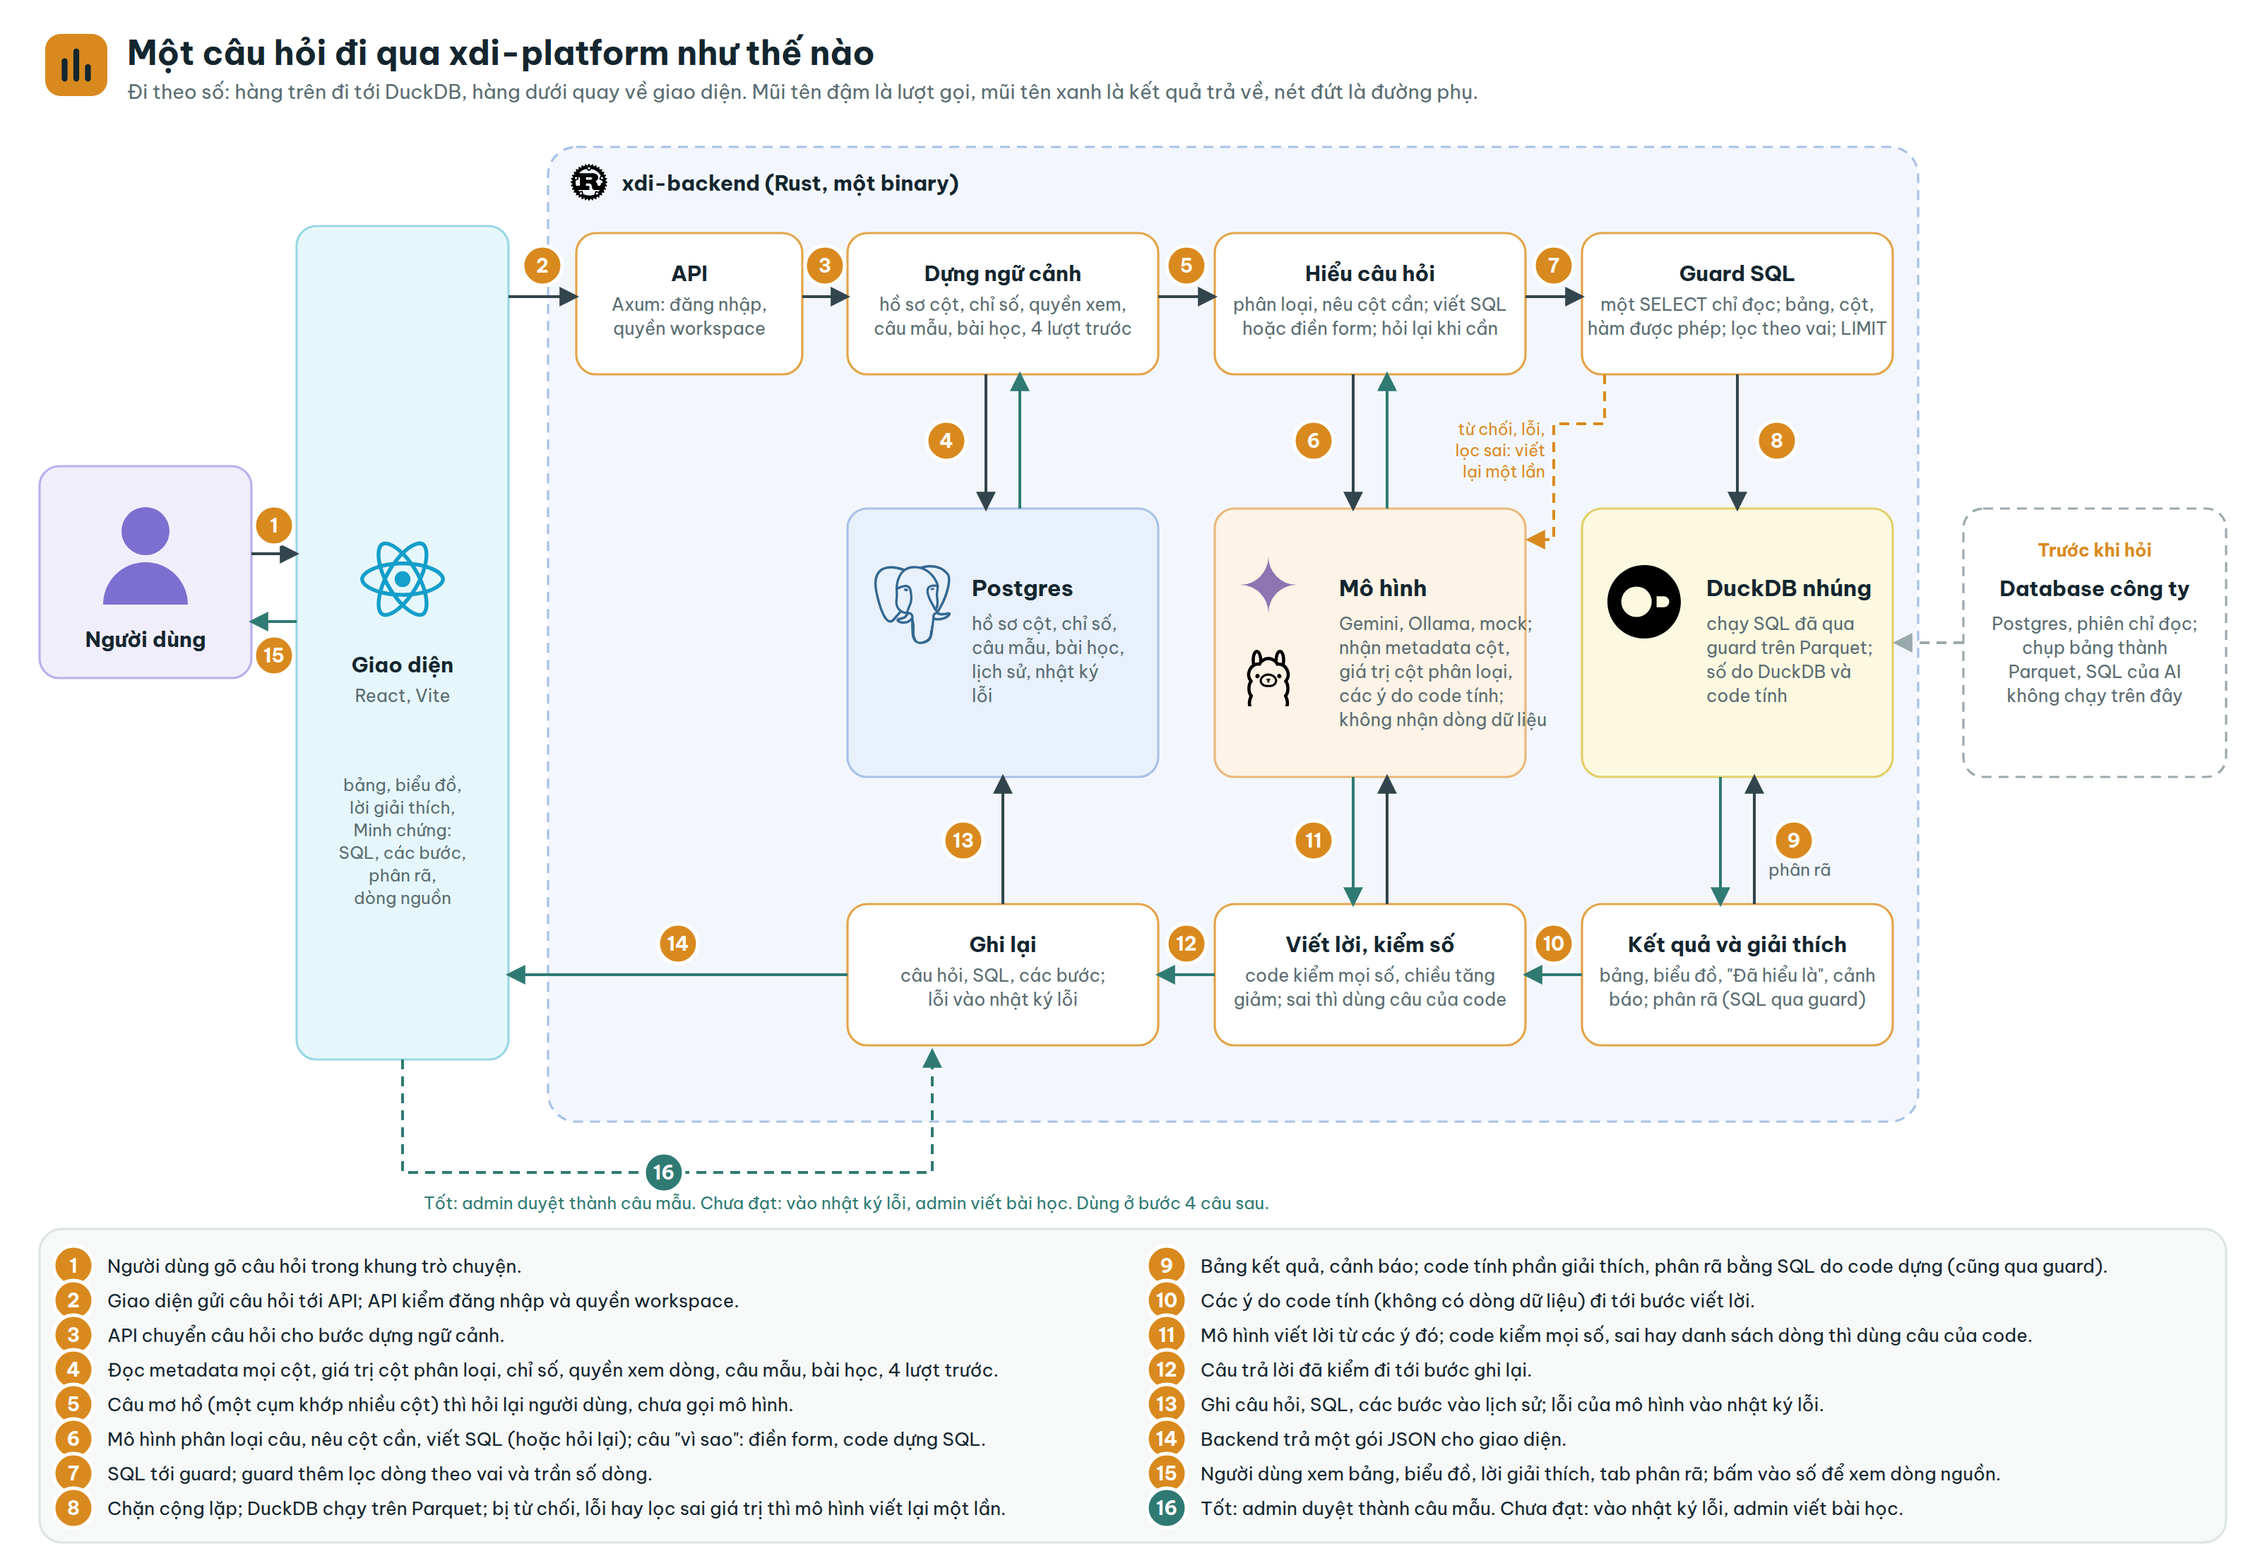
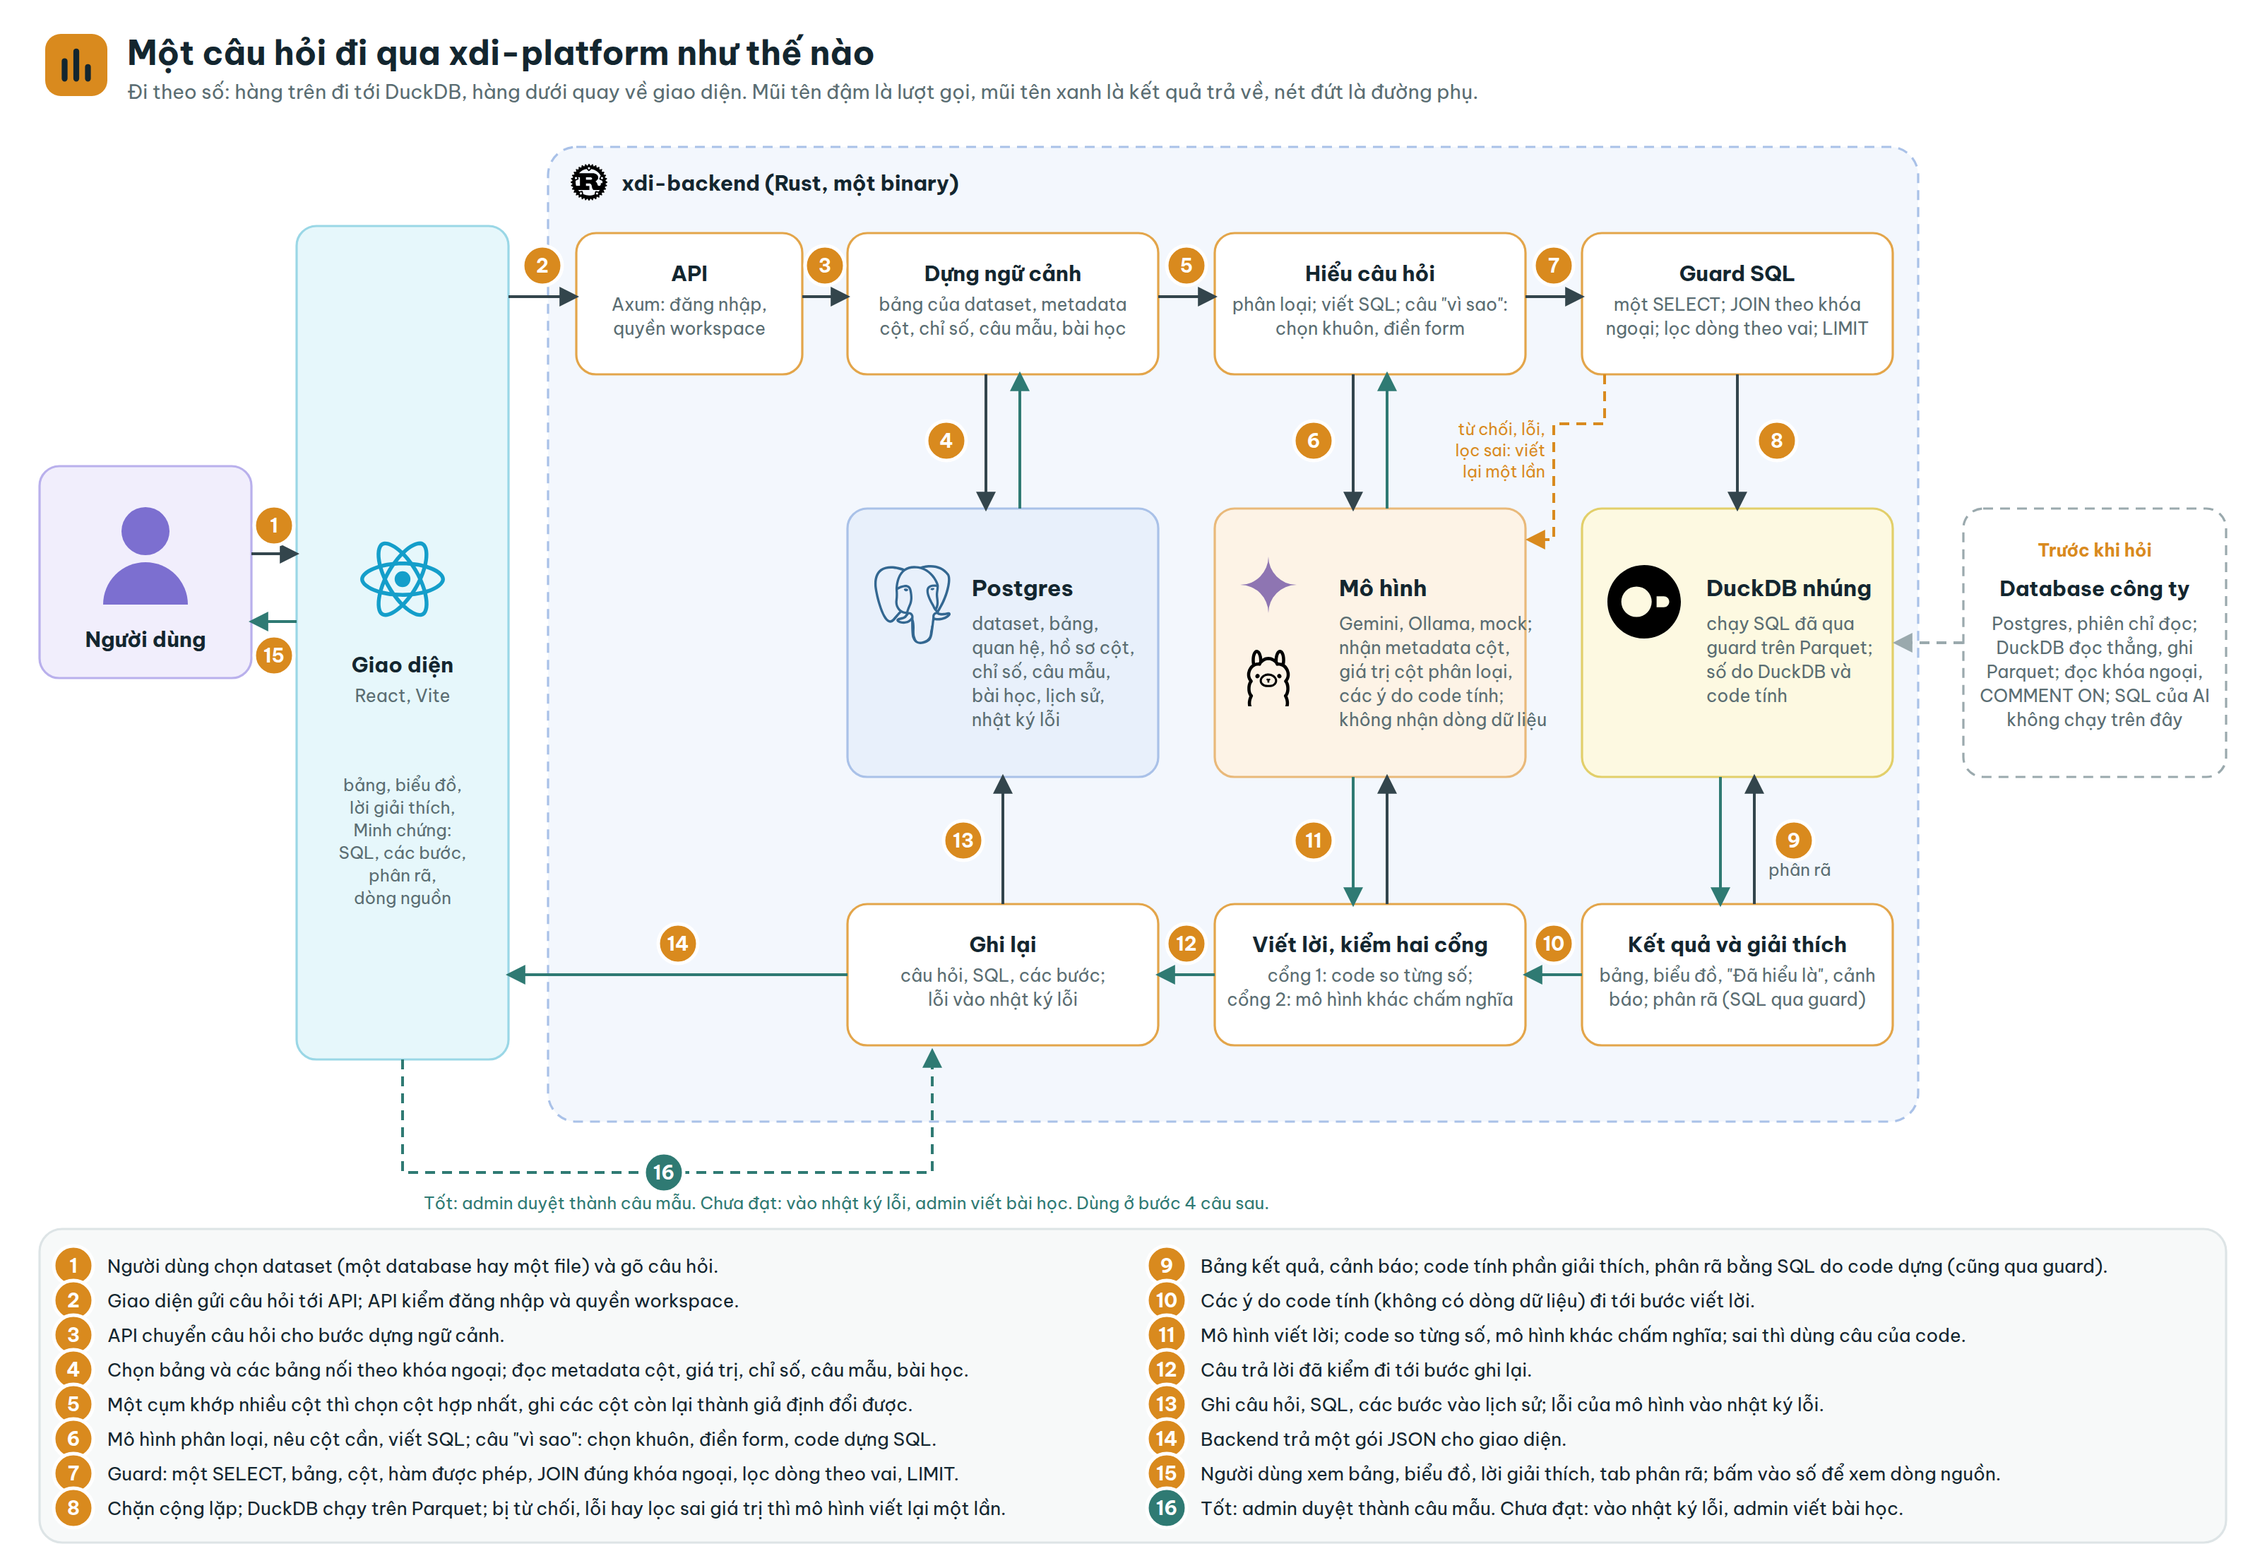
docs: update the question flow diagram to the current code and keep its source (#275)
Closes #262

- Sơ đồ luồng một câu hỏi (`docs/images/luong-cau-hoi.png`, ở README và
Pages) cập nhật theo code hiện tại: chọn dataset (database hay file,
#257), chọn bảng và bảng nối theo khóa ngoại; một cụm khớp nhiều cột thì
chọn cột hợp nhất, ghi giả định đổi được (#240, thay cho hỏi lại); câu
"vì sao" chọn khuôn (#255); guard nhận JOIN đúng khóa ngoại (#264); lời
qua hai cổng, code so từng số rồi mô hình khác chấm nghĩa (#240, #241);
DuckDB đọc thẳng Postgres, đọc khóa ngoại và `COMMENT ON` (#245, #263).
- Source sinh sơ đồ ở `docs/images/src/luong-cau-hoi.py` (kèm
`logos.json`), đầu file ghi lệnh chụp lại thành PNG; file HTML trung
gian không commit.

Đã kiểm: đối chiếu từng ô và từng dòng chú giải với code trên `main`;
chạy lại script và chụp bằng Chrome không giao diện ra đúng ảnh trong
PR.

diff --git a/docs/images/src/luong-cau-hoi.py b/docs/images/src/luong-cau-hoi.py
@@ -1,0 +1,187 @@
+# docs/images/src/luong-cau-hoi.py - sinh sơ đồ luồng một câu hỏi (docs/images/luong-cau-hoi.png, ở README và Pages).
+# Hàng trên đi tới DuckDB, hàng dưới quay về giao diện; Postgres, mô hình ngôn ngữ, DuckDB nằm giữa.
+# Logo trong logos.json (đường SVG). Chạy: python3 docs/images/src/luong-cau-hoi.py, rồi chụp file HTML sinh ra bằng
+# Chrome không giao diện:
+#   google-chrome --headless=new --hide-scrollbars --force-device-scale-factor=2 --window-size=1600,1110 \
+#     --virtual-time-budget=10000 --screenshot=docs/images/luong-cau-hoi.png docs/images/src/luong-cau-hoi.html
+# Sửa chữ ở đây khi luồng trong code đổi (docs/ARCHITECTURE.md mục luồng một câu hỏi).
+import json
+import os
+from html import escape
+
+HERE = os.path.dirname(os.path.abspath(__file__))
+
+LOGOS = json.load(open(os.path.join(HERE, "logos.json")))
+W, H = 1600, 1110
+INK, MUTED = "#13262f", "#5a6d72"
+REQ, RET, NUM = "#33454c", "#2f7a73", "#d98a1e"
+out = []
+
+
+def text(x, y, lines, size=13, weight=400, fill=MUTED, anchor="middle", lh=None):
+    lh = lh or size * 1.4
+    spans = "".join(f'<tspan x="{x}" dy="{0 if i == 0 else lh}">{escape(l)}</tspan>' for i, l in enumerate(lines))
+    out.append(f'<text x="{x}" y="{y}" font-size="{size}" font-weight="{weight}" fill="{fill}" text-anchor="{anchor}">{spans}</text>')
+
+
+def logo(name, x, y, size):
+    out.append(f'<g transform="translate({x},{y}) scale({size / 24})">{LOGOS[name]}</g>')
+
+
+def rect(x, y, w, h, fill, stroke, dashed=False, rx=14):
+    dash = ' stroke-dasharray="7 5"' if dashed else ""
+    out.append(f'<rect x="{x}" y="{y}" width="{w}" height="{h}" rx="{rx}" fill="{fill}" stroke="{stroke}" stroke-width="1.6"{dash}/>')
+
+
+def module(x, y, w, h, title, lines):
+    rect(x, y, w, h, "#ffffff", "#e3a54a")
+    top = y + h / 2 - len(lines) * 9 + 2
+    text(x + w / 2, top, [title], size=15, weight=700, fill=INK)
+    text(x + w / 2, top + 21, lines, size=12.5, lh=17)
+
+
+def arrow(points, color=REQ, dashed=False, width=2):
+    d = "M" + " L".join(f"{px} {py}" for px, py in points)
+    dash = ' stroke-dasharray="7 5"' if dashed else ""
+    out.append(f'<path d="{d}" fill="none" stroke="{color}" stroke-width="{width}"{dash} marker-end="url(#ah)"/>')
+
+
+def num(x, y, n, color=NUM):
+    out.append(f'<circle cx="{x}" cy="{y}" r="14" fill="{color}" stroke="#ffffff" stroke-width="2.5"/>')
+    text(x, y + 5, [str(n)], size=13.5, weight=700, fill="#ffffff")
+
+
+out.append(f'<rect width="{W}" height="{H}" fill="#ffffff"/>')
+out.append(
+    '<svg x="32" y="24" width="44" height="44" viewBox="0 0 32 32"><rect width="32" height="32" rx="8" fill="#d98a1e"/>'
+    '<path d="M10 23v-9M16 23V9M22 23v-6" stroke="#13262f" stroke-width="3" stroke-linecap="round"/></svg>'
+)
+text(90, 46, ["Một câu hỏi đi qua xdi-platform như thế nào"], size=24, weight=700, fill=INK, anchor="start")
+text(90, 70, ["Đi theo số: hàng trên đi tới DuckDB, hàng dưới quay về giao diện. Mũi tên đậm là lượt gọi, mũi tên xanh là kết quả trả về, nét đứt là đường phụ."], size=14, anchor="start")
+
+# ---- khung backend
+rect(388, 104, 970, 690, "#f3f7fd", "#a9c1e8", dashed=True, rx=20)
+logo("rust", 404, 116, 26)
+text(440, 135, ["xdi-backend (Rust, một binary)"], size=15, weight=700, fill=INK, anchor="start")
+
+# ---- người dùng, giao diện
+rect(28, 330, 150, 150, "#f1eefc", "#b9b0ec")
+out.append('<circle cx="103" cy="376" r="17" fill="#7c6fd0"/><path d="M73 428 a30 30 0 0 1 60 0 z" fill="#7c6fd0"/>')
+text(103, 458, ["Người dùng"], size=15, weight=700, fill=INK)
+
+rect(210, 160, 150, 590, "#e6f7fb", "#9ad7e6")
+logo("react", 255, 380, 60)
+text(285, 476, ["Giao diện"], size=15, weight=700, fill=INK)
+text(285, 497, ["React, Vite"], size=12.5)
+text(285, 560, ["bảng, biểu đồ,", "lời giải thích,", "Minh chứng:", "SQL, các bước,", "phân rã,", "dòng nguồn"], size=12, lh=16)
+
+# ---- hàng trên
+TY, TH = 165, 100
+cols = {"api": (408, 160), "ctx": (600, 220), "sql": (860, 220), "guard": (1120, 220)}
+module(*cols["api"], TY, TH, "API", ["Axum: đăng nhập,", "quyền workspace"]) if False else None
+x, w = cols["api"]; module(x, TY, w, TH, "API", ["Axum: đăng nhập,", "quyền workspace"])
+x, w = cols["ctx"]; module(x, TY, w, TH, "Dựng ngữ cảnh", ["bảng của dataset, metadata", "cột, chỉ số, câu mẫu, bài học"])
+x, w = cols["sql"]; module(x, TY, w, TH, "Hiểu câu hỏi", ["phân loại; viết SQL; câu \"vì sao\":", "chọn khuôn, điền form"])
+x, w = cols["guard"]; module(x, TY, w, TH, "Guard SQL", ["một SELECT; JOIN theo khóa", "ngoại; lọc dòng theo vai; LIMIT"])
+
+# ---- giữa: Postgres, mô hình, DuckDB, database công ty
+MY, MH = 360, 190
+
+
+def external(x, w, fill, stroke, logos, title, lines):
+    rect(x, MY, w, MH, fill, stroke)
+    lx = x + 18
+    for name, size, dy in logos:
+        logo(name, lx, MY + dy, size)
+    text(x + 88, MY + 62, [title], size=16, weight=700, fill=INK, anchor="start")
+    text(x + 88, MY + 86, lines, size=12.5, anchor="start", lh=17)
+
+
+external(600, 220, "#e8f0fb", "#a9c1e8", [("postgres", 56, 40)], "Postgres", ["dataset, bảng,", "quan hệ, hồ sơ cột,", "chỉ số, câu mẫu,", "bài học, lịch sử,", "nhật ký lỗi"])
+external(860, 220, "#fdf3e6", "#e9b97a", [("gemini", 40, 34), ("ollama", 40, 100)], "Mô hình", ["Gemini, Ollama, mock;", "nhận metadata cột,", "giá trị cột phân loại,", "các ý do code tính;", "không nhận dòng dữ liệu"])
+external(1120, 220, "#fdf9e1", "#e2cf6a", [("duckdb", 52, 40)], "DuckDB nhúng", ["chạy SQL đã qua", "guard trên Parquet;", "số do DuckDB và", "code tính"])
+
+rect(1390, MY, 186, MH, "#ffffff", "#9aa9ad", dashed=True)
+text(1483, MY + 34, ["Trước khi hỏi"], size=12.5, weight=700, fill=NUM)
+text(1483, MY + 62, ["Database công ty"], size=15, weight=700, fill=INK)
+text(1483, MY + 86, ["Postgres, phiên chỉ đọc;", "DuckDB đọc thẳng, ghi", "Parquet; đọc khóa ngoại,", "COMMENT ON; SQL của AI", "không chạy trên đây"], size=12.5, lh=17)
+arrow([(1390, MY + MH / 2), (1342, MY + MH / 2)], color="#9aa9ad", dashed=True)
+
+# ---- hàng dưới
+BY, BH = 640, 100
+module(1120, BY, 220, BH, "Kết quả và giải thích", ["bảng, biểu đồ, \"Đã hiểu là\", cảnh", "báo; phân rã (SQL qua guard)"])
+module(860, BY, 220, BH, "Viết lời, kiểm hai cổng", ["cổng 1: code so từng số;", "cổng 2: mô hình khác chấm nghĩa"])
+module(600, BY, 220, BH, "Ghi lại", ["câu hỏi, SQL, các bước;", "lỗi vào nhật ký lỗi"])
+
+# ---- đường chính
+ty = TY + 45
+arrow([(178, 392), (210, 392)]); num(194, 372, 1)
+arrow([(360, ty), (408, ty)]); num(384, ty - 22, 2)
+arrow([(568, ty), (600, ty)]); num(584, ty - 22, 3)
+arrow([(820, ty), (860, ty)]); num(840, ty - 22, 5)
+arrow([(1080, ty), (1120, ty)]); num(1100, ty - 22, 7)
+
+# ngữ cảnh <-> Postgres
+arrow([(698, TY + TH), (698, MY)]); arrow([(722, MY), (722, TY + TH)], color=RET); num(670, 312, 4)
+# hiểu câu hỏi <-> mô hình
+arrow([(958, TY + TH), (958, MY)]); arrow([(982, MY), (982, TY + TH)], color=RET); num(930, 312, 6)
+# guard -> DuckDB
+arrow([(1230, TY + TH), (1230, MY)]); num(1258, 312, 8)
+# guard sai -> mô hình sửa một lần
+arrow([(1136, TY + TH), (1136, 300), (1100, 300), (1100, MY + 22), (1082, MY + 22)], color=NUM, dashed=True)
+text(1094, 308, ["từ chối, lỗi,", "lọc sai: viết", "lại một lần"], size=11.5, fill=NUM, anchor="end", lh=15)
+# DuckDB -> kết quả (và SQL phân rã đi lên)
+arrow([(1218, MY + MH), (1218, BY)], color=RET); arrow([(1242, BY), (1242, MY + MH)]); num(1270, 595, 9)
+text(1252, 620, ["phân rã"], size=12, fill=MUTED, anchor="start")
+# kết quả -> viết lời <-> mô hình
+arrow([(1120, BY + 50), (1080, BY + 50)], color=RET); num(1100, BY + 28, 10)
+arrow([(982, BY), (982, MY + MH)]); arrow([(958, MY + MH), (958, BY)], color=RET); num(930, 595, 11)
+# viết lời -> ghi lại -> Postgres
+arrow([(860, BY + 50), (820, BY + 50)], color=RET); num(840, BY + 28, 12)
+arrow([(710, BY), (710, MY + MH)]); num(682, 595, 13)
+# ghi lại -> giao diện -> người dùng
+arrow([(600, BY + 50), (360, BY + 50)], color=RET); num(480, BY + 28, 14)
+arrow([(210, 440), (178, 440)], color=RET); num(194, 464, 15)
+# phản hồi: Tốt / Chưa đạt -> câu mẫu, bài học
+arrow([(285, 750), (285, 830), (660, 830), (660, BY + BH + 4)], color=RET, dashed=True)
+num(470, 830, 16, color=RET)
+text(300, 856, ["Tốt: admin duyệt thành câu mẫu. Chưa đạt: vào nhật ký lỗi, admin viết bài học. Dùng ở bước 4 câu sau."], size=12, fill=RET, anchor="start")
+# ghi lại cũng ghi phản hồi vào Postgres: mũi tên lên đã có ở bước 13
+
+# ---- chú giải các bước
+steps = [
+    "Người dùng chọn dataset (một database hay một file) và gõ câu hỏi.",
+    "Giao diện gửi câu hỏi tới API; API kiểm đăng nhập và quyền workspace.",
+    "API chuyển câu hỏi cho bước dựng ngữ cảnh.",
+    "Chọn bảng và các bảng nối theo khóa ngoại; đọc metadata cột, giá trị, chỉ số, câu mẫu, bài học.",
+    "Một cụm khớp nhiều cột thì chọn cột hợp nhất, ghi các cột còn lại thành giả định đổi được.",
+    "Mô hình phân loại, nêu cột cần, viết SQL; câu \"vì sao\": chọn khuôn, điền form, code dựng SQL.",
+    "Guard: một SELECT, bảng, cột, hàm được phép, JOIN đúng khóa ngoại, lọc dòng theo vai, LIMIT.",
+    "Chặn cộng lặp; DuckDB chạy trên Parquet; bị từ chối, lỗi hay lọc sai giá trị thì mô hình viết lại một lần.",
+    "Bảng kết quả, cảnh báo; code tính phần giải thích, phân rã bằng SQL do code dựng (cũng qua guard).",
+    "Các ý do code tính (không có dòng dữ liệu) đi tới bước viết lời.",
+    "Mô hình viết lời; code so từng số, mô hình khác chấm nghĩa; sai thì dùng câu của code.",
+    "Câu trả lời đã kiểm đi tới bước ghi lại.",
+    "Ghi câu hỏi, SQL, các bước vào lịch sử; lỗi của mô hình vào nhật ký lỗi.",
+    "Backend trả một gói JSON cho giao diện.",
+    "Người dùng xem bảng, biểu đồ, lời giải thích, tab phân rã; bấm vào số để xem dòng nguồn.",
+    "Tốt: admin duyệt thành câu mẫu. Chưa đạt: vào nhật ký lỗi, admin viết bài học.",
+]
+LY = 870
+rect(28, LY, 1548, 222, "#f7f9f9", "#dde4e6", rx=16)
+for i, s in enumerate(steps):
+    col, r = divmod(i, 8)
+    x = 52 + col * 774
+    y = LY + 30 + r * 24.5
+    num(x, y - 4, i + 1, color=RET if i == 15 else NUM)
+    text(x + 24, y + 1, [s], size=13, fill=INK, anchor="start")
+
+svg = "\n".join(o for o in out if o)
+html = f"""<!doctype html><html lang="vi"><head><meta charset="utf-8"><title>xdi-platform: luồng một câu hỏi</title>
+<link href="https://fonts.googleapis.com/css2?family=Be+Vietnam+Pro:wght@400;500;600;700&display=swap" rel="stylesheet">
+<style>body{{margin:0;background:#fff}} svg{{display:block}}</style></head><body>
+<svg xmlns="http://www.w3.org/2000/svg" role="img" aria-label="Luồng một câu hỏi qua xdi-platform" viewBox="0 0 {W} {H}" width="{W}" height="{H}" font-family="Be Vietnam Pro, system-ui, sans-serif">
+<defs><marker id="ah" viewBox="0 0 10 10" refX="8.5" refY="5" markerWidth="7" markerHeight="7" orient="auto-start-reverse"><path d="M0 0 L10 5 L0 10z" fill="context-stroke"/></marker></defs>
+{svg}
+</svg></body></html>"""
+open(os.path.join(HERE, "luong-cau-hoi.html"), "w").write(html)
